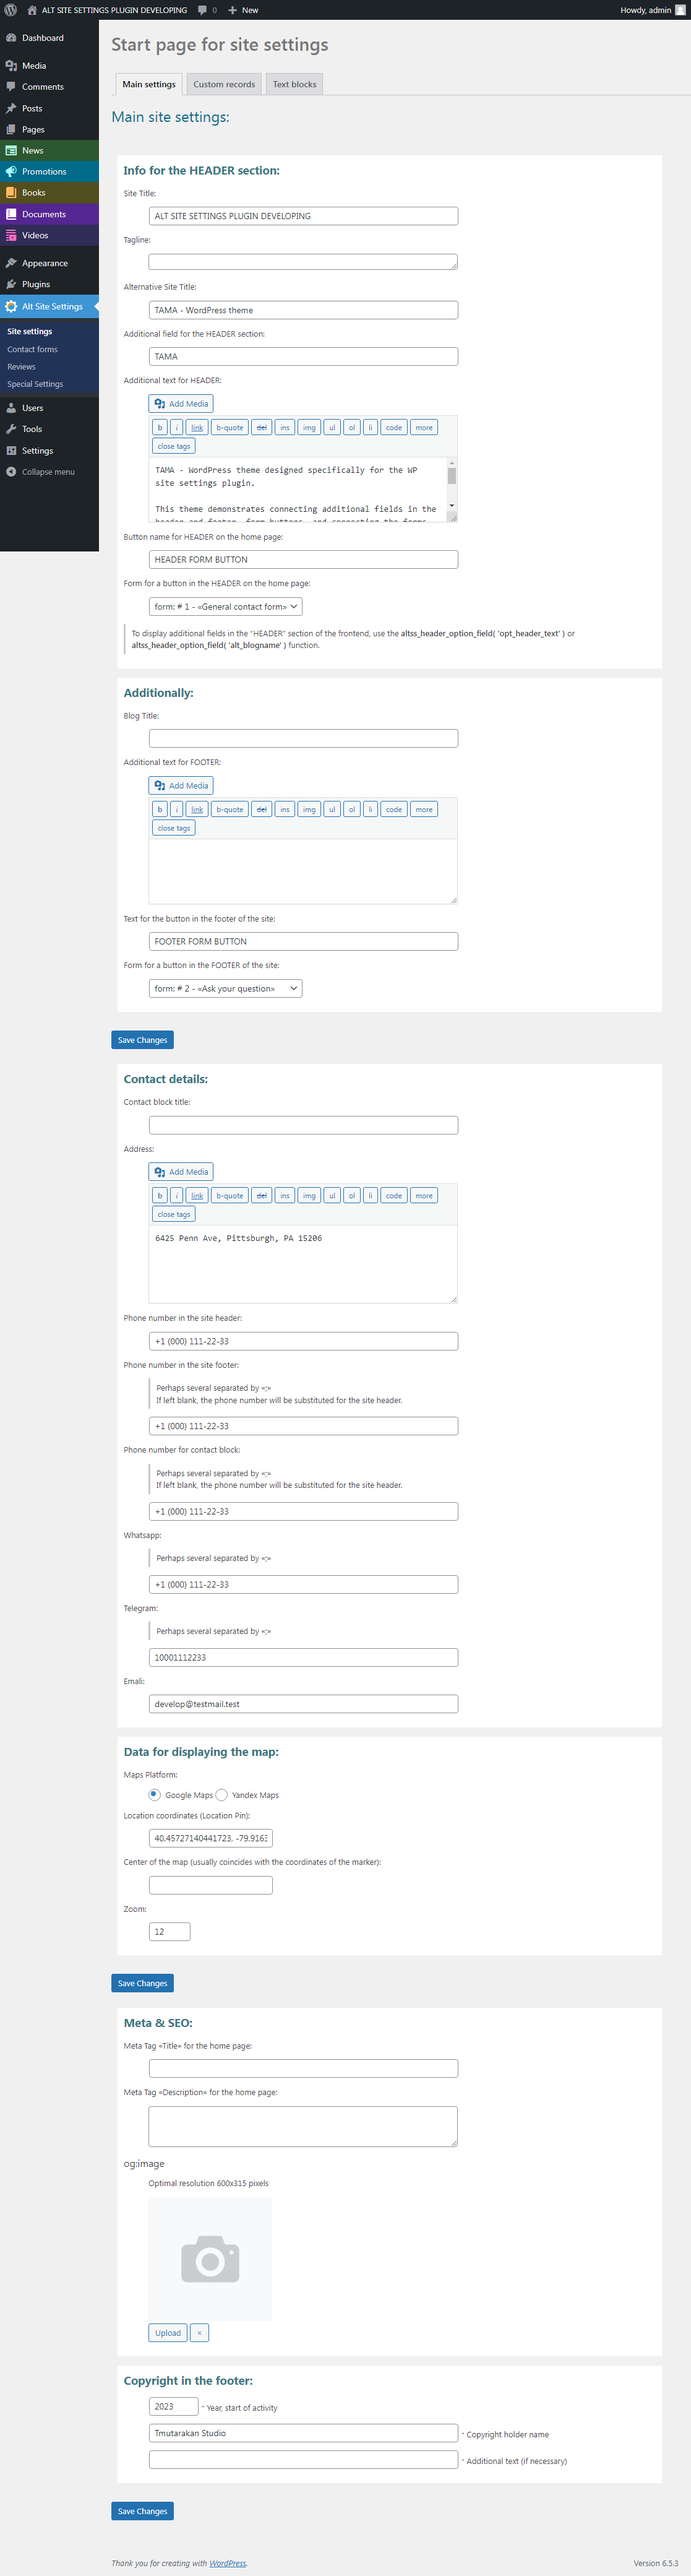
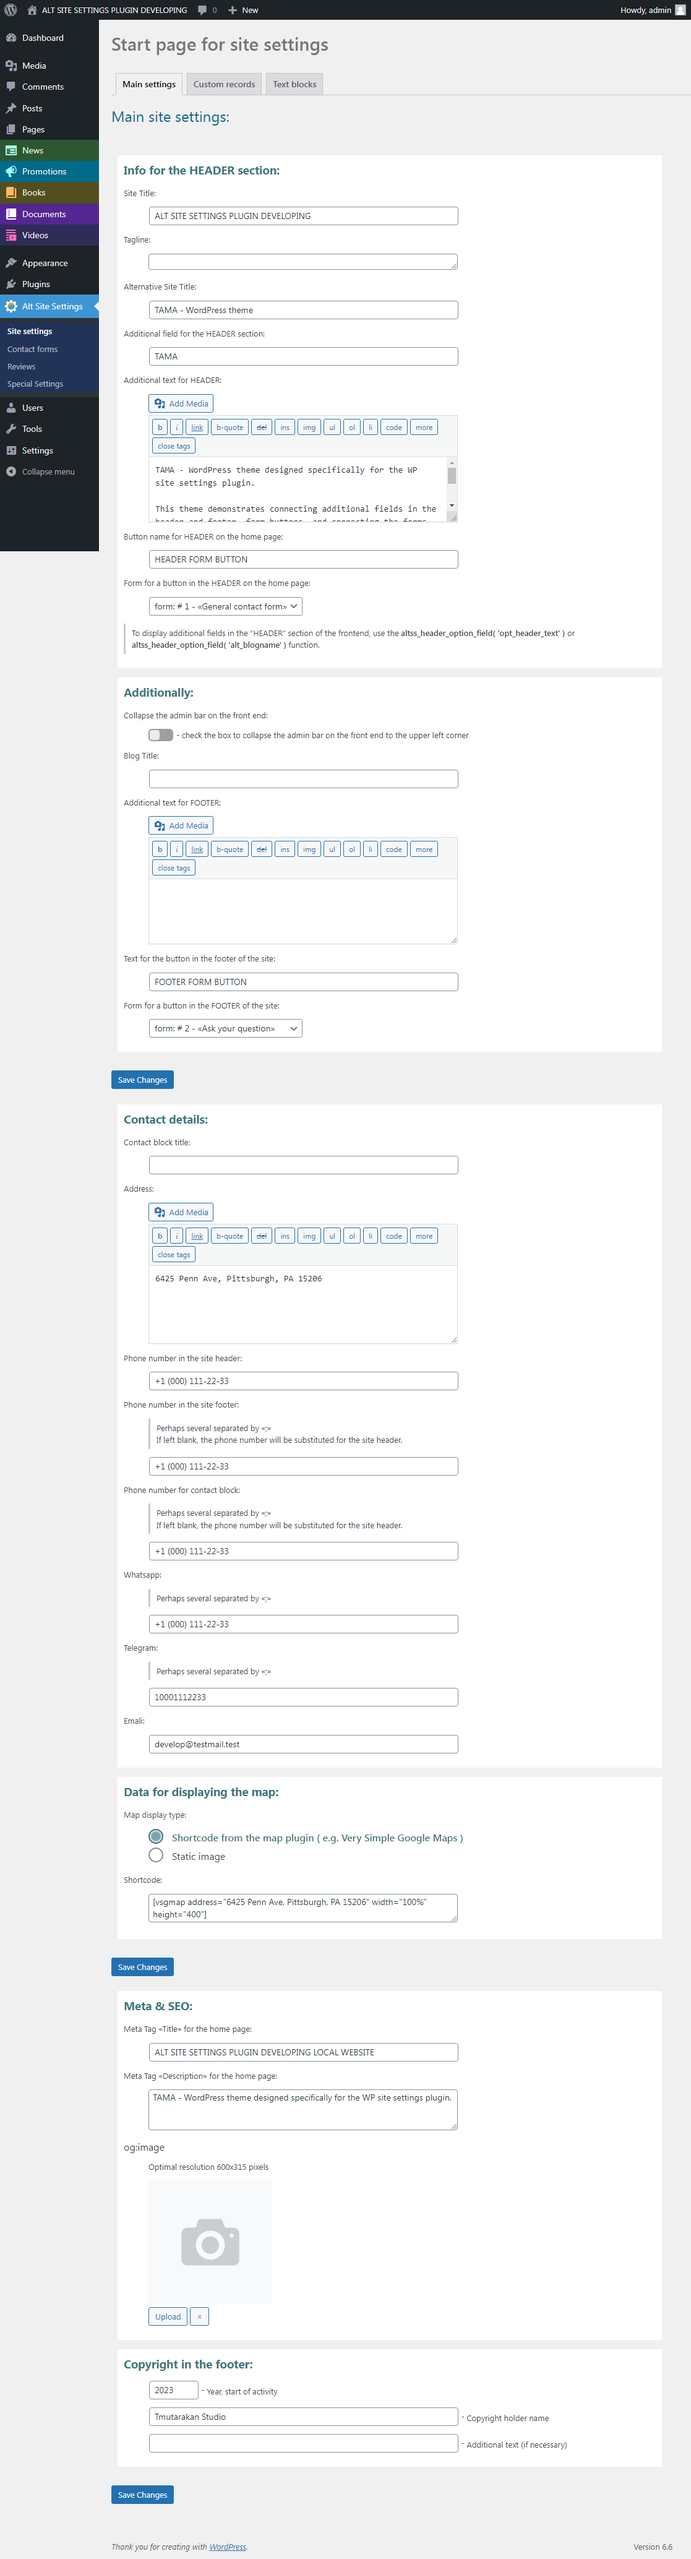
Update 2024-07-22

diff --git a/README.md b/README.md
@@ -10,7 +10,7 @@ such as a landing page or a business card website.
 The plugin contains the following functionality:
 
 * Editing basic settings, such as the name and description of the site, the content of meta tags for the main page, og:image for the main page, copyright information, additional text fields for the header and footer.
-* Fields for the contact information section, which is usually located at the bottom of the landing page or in the footer of the site. A card with a minimum set of data is also connected to the contacts section.
+* Fields for the contact information section, which is usually located at the bottom of the landing page or in the footer of the site. The contacts section also either includes a map via a shortcode of a third-party plugin, or a static image with an office location diagram is inserted.
 * Five ready-made options for custom records - News, Promotions, Documents, Books, Videos. Each recording type is disabled by default.
 * Contact forms with a minimum set of seven fields. They satisfy the basic needs when using pop-up feedback forms.
 * The "Reviews" section allows you to organize moderated reviews from site visitors.

diff --git a/recipes_and_tips.md b/recipes_and_tips.md
@@ -1,0 +1,3 @@
+# RECIPES AND TIPS for Alternative Site Settings Plugin
+
+![Image](.wordpress-org/icon-256x256.png)
